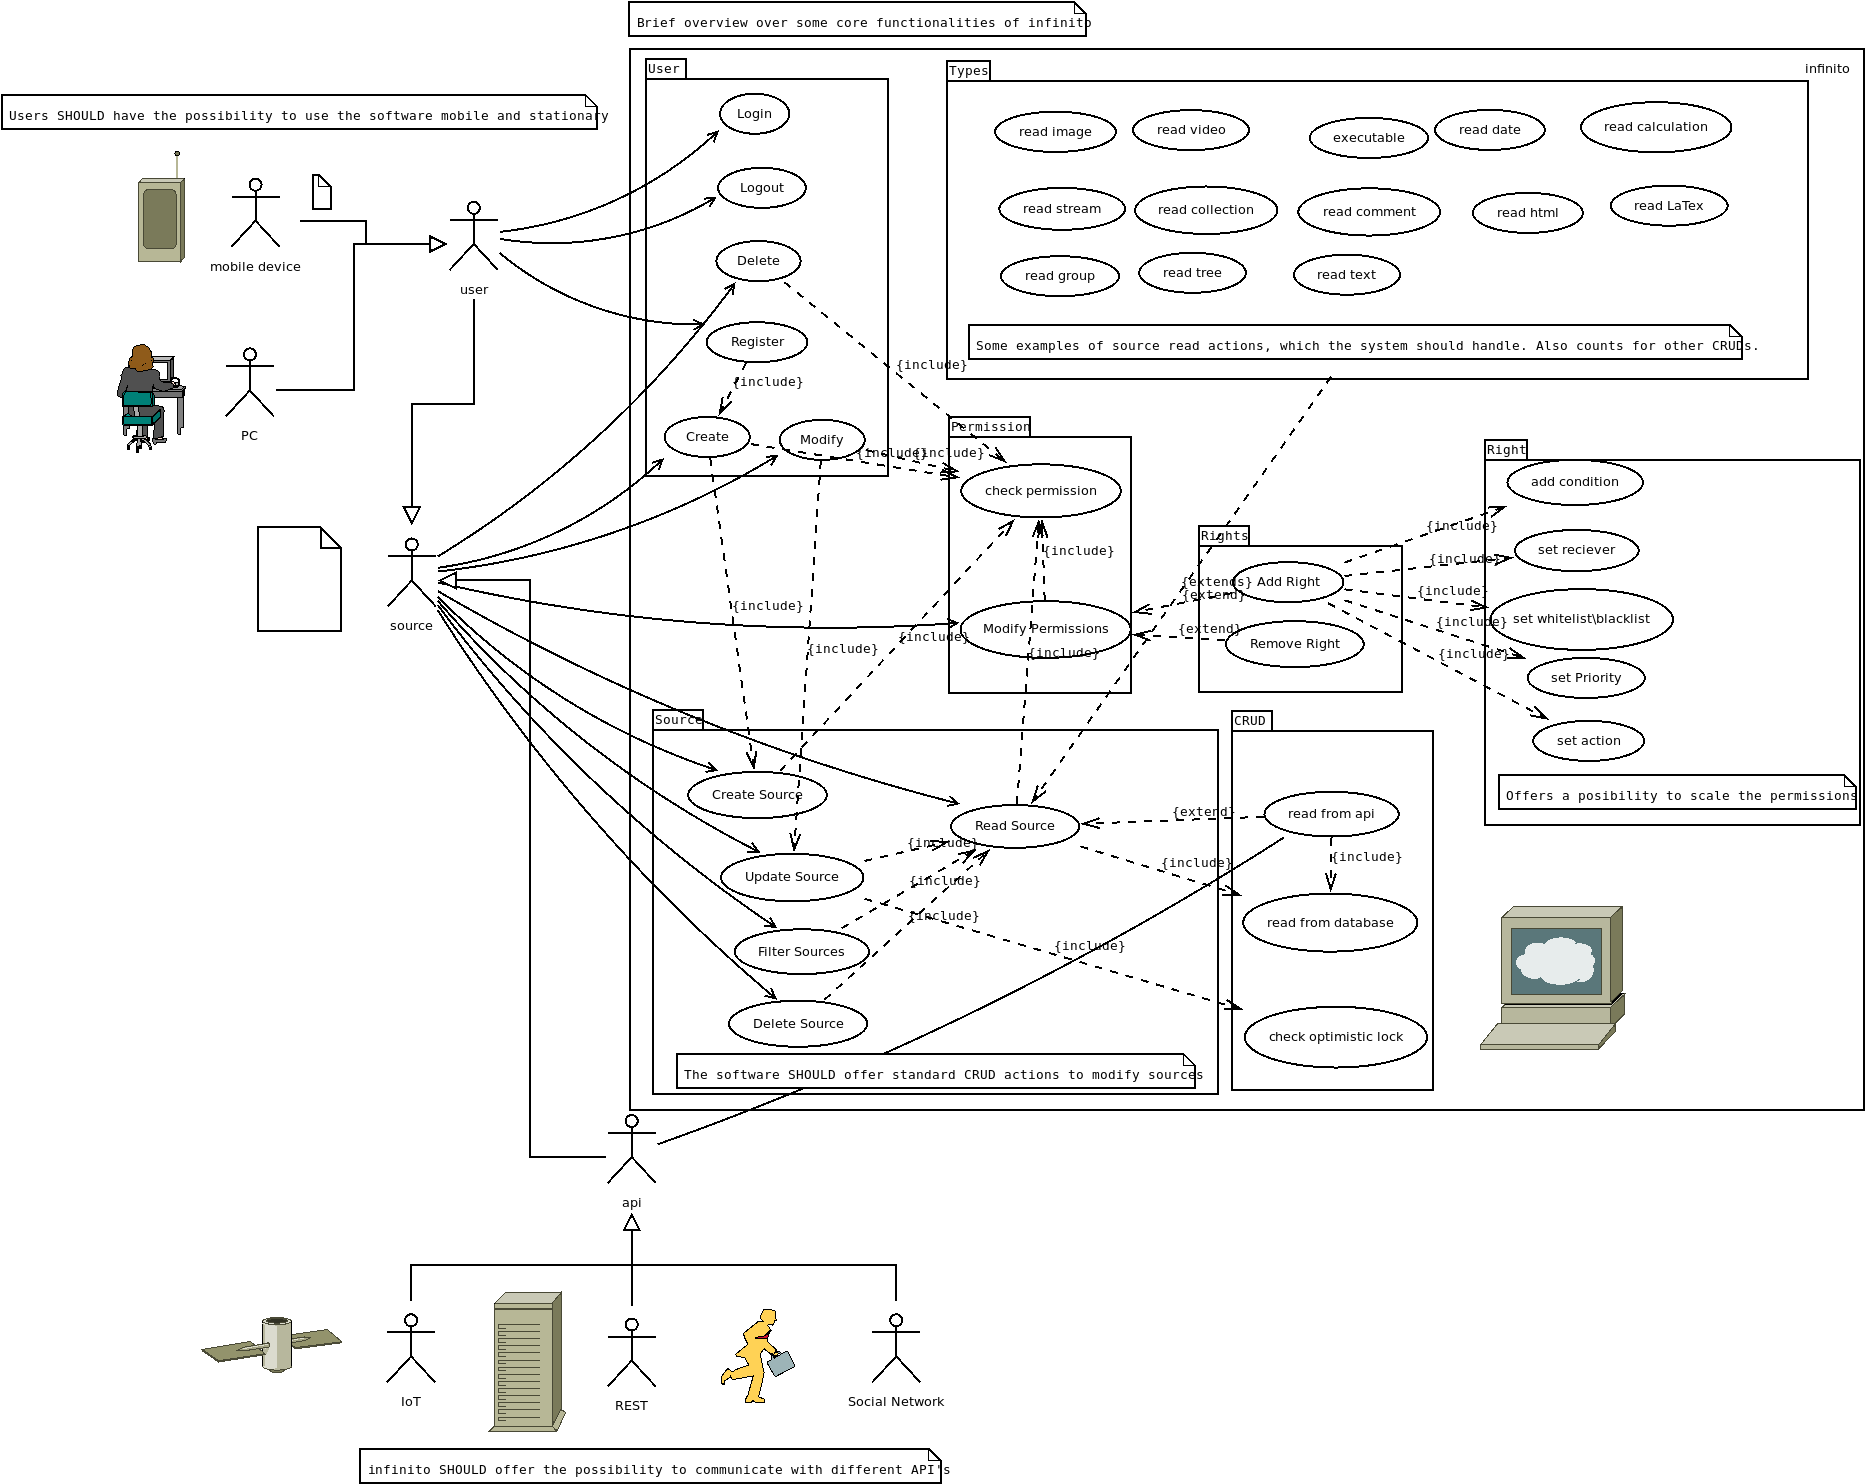
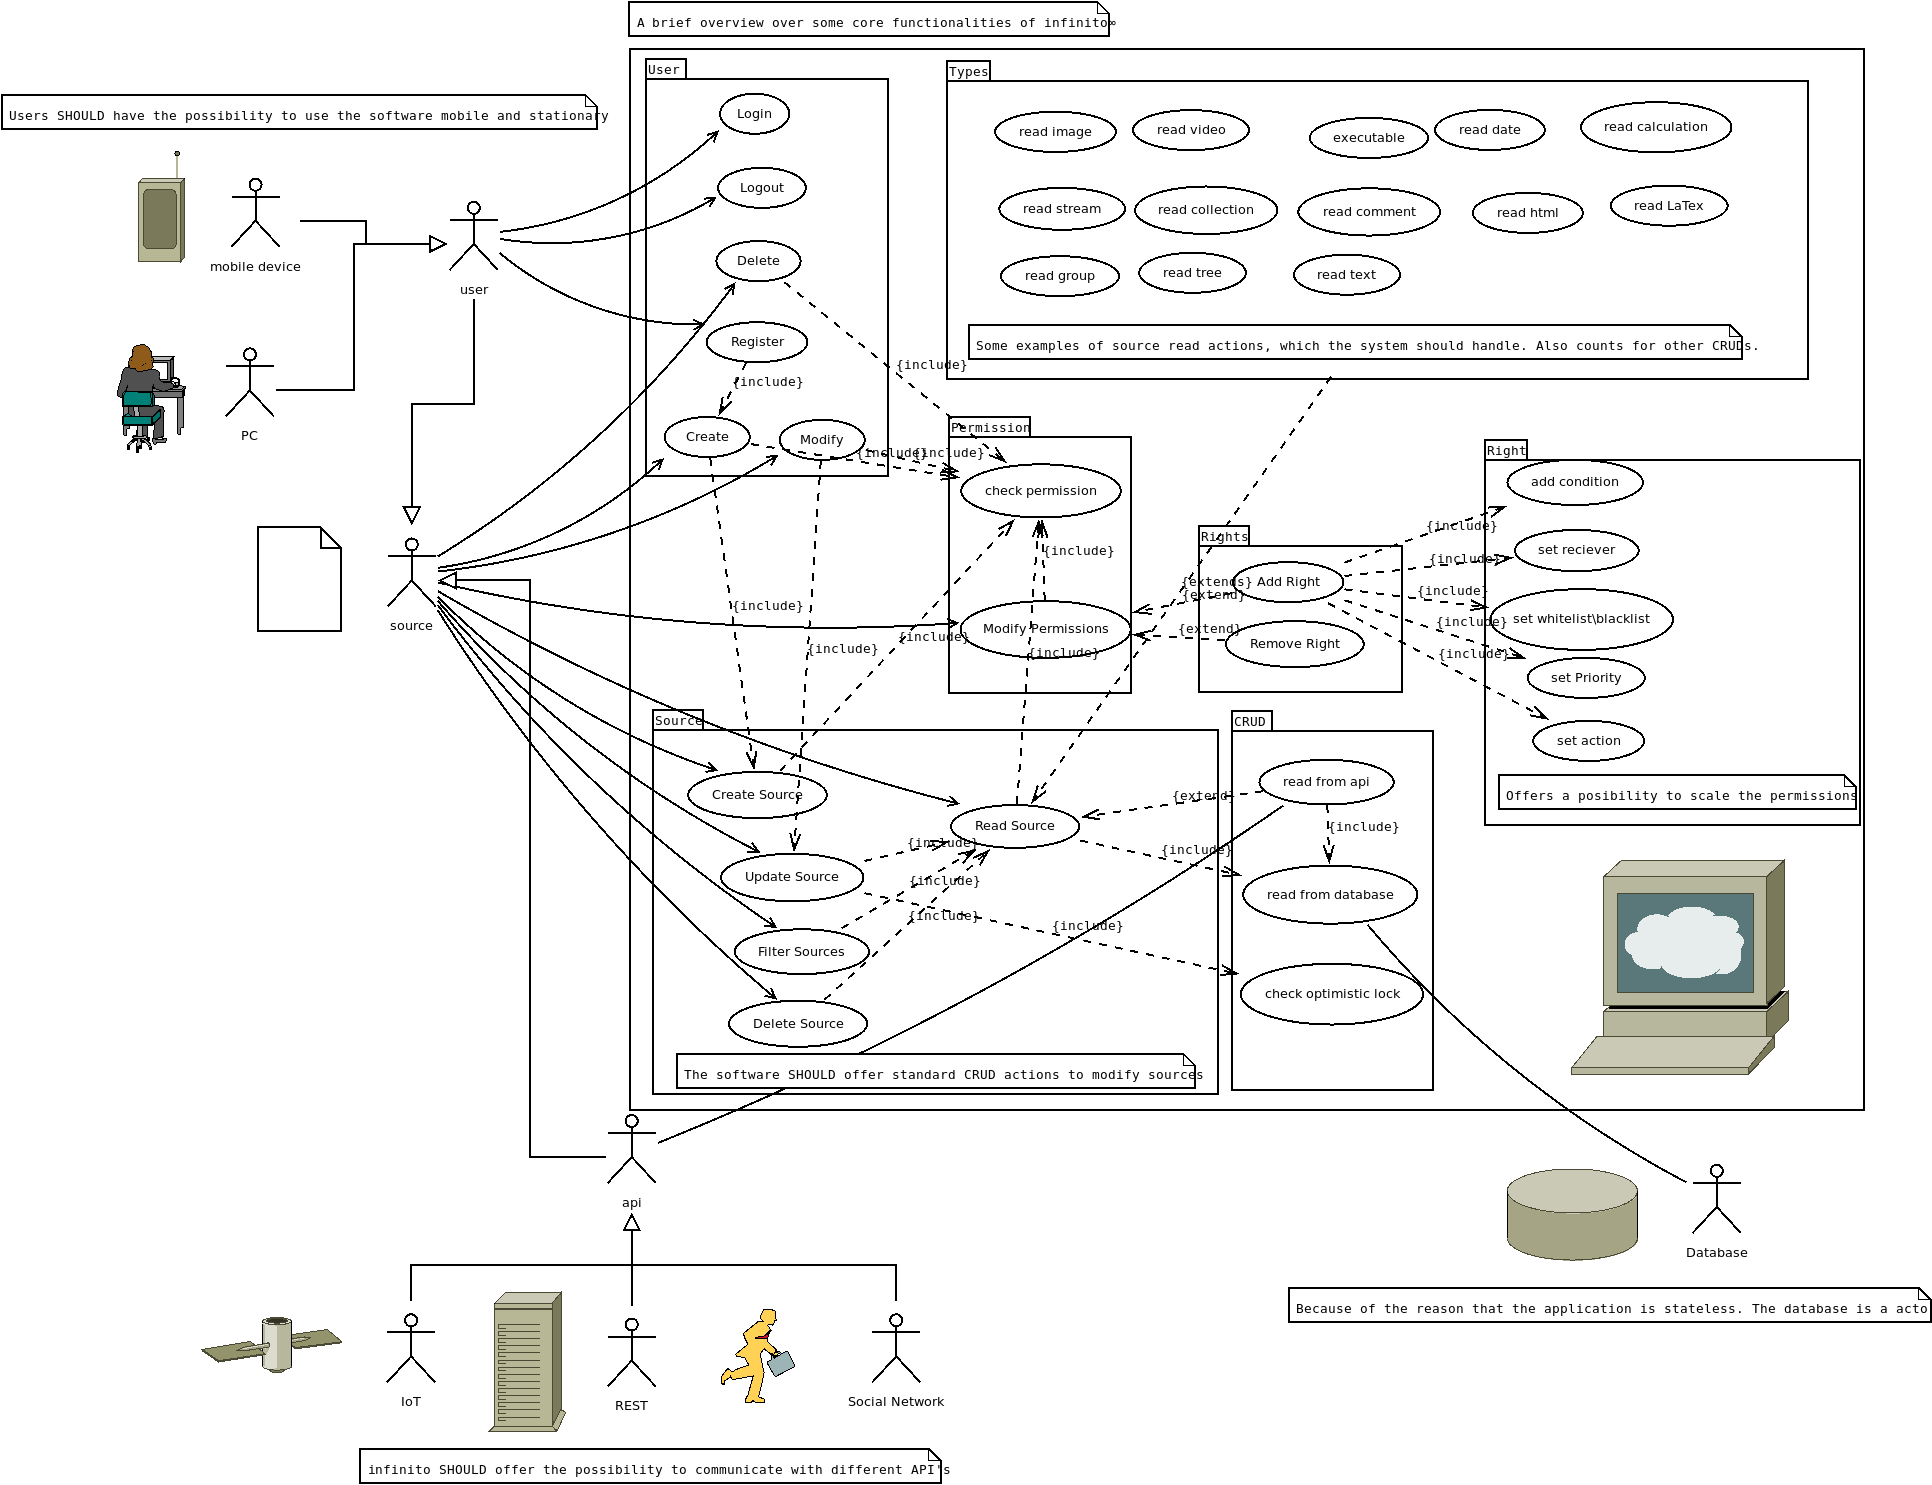
Optimized use case diagram

diff --git a/README.md b/README.md
@@ -18,7 +18,7 @@ This software should offer a cloud based application\\framework for GUI and REST
 - High scalability (IaaS compatible)
 
 ### Basic Use Case Diagram
-The following [use case diagram](https://de.wikipedia.org/wiki/Anwendungsfall) doesn't cover all use cases of the software. It just gives a brief overview over the functionalities of sources.  
+The following [use case diagram](https://de.wikipedia.org/wiki/Anwendungsfall) doesn't cover all use cases of the software. It just gives a brief overview over some functionalities of sources.
 ![Server Architecture](.meta/use-case-brainstorming.png)
 
 ## Setup
